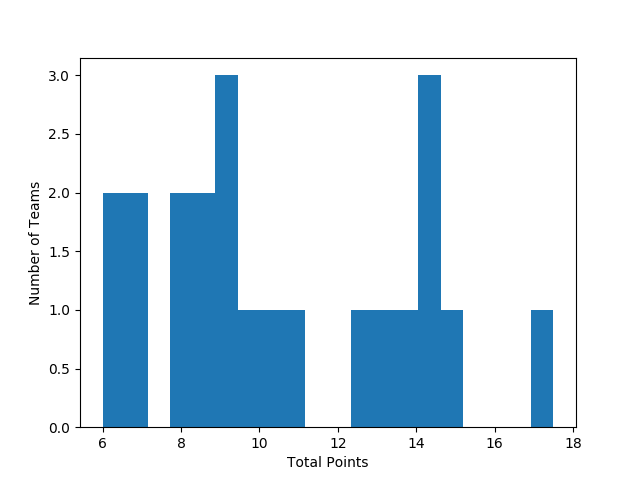
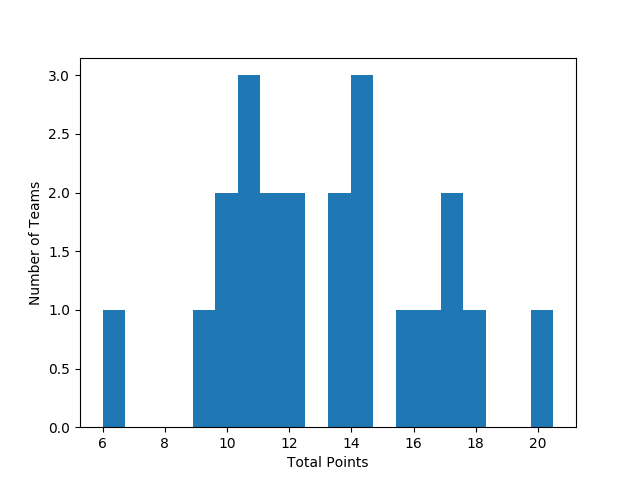
12-27 update

diff --git a/bowl_pool/2023-2024/results.html b/bowl_pool/2023-2024/results.html
@@ -900,33 +900,117 @@ ul.auto-toc {
 <td>0.0</td>
 <td>0.0</td>
 </tr>
+<tr><td>18</td>
+<td>Quick Lane Bowl</td>
+<td>Minnesota</td>
+<td>Bowling Green</td>
+<td>5.5</td>
+<td>1.0</td>
+<td>1.0</td>
+<td>0.0</td>
+<td>1.0</td>
+<td>1.0</td>
+<td>1.0</td>
+<td>1.0</td>
+<td>1.0</td>
+<td>0.0</td>
+<td>0.0</td>
+<td>1.0</td>
+<td>1.0</td>
+<td>0.0</td>
+<td>0.0</td>
+<td>1.0</td>
+<td>1.0</td>
+<td>0.0</td>
+<td>0.0</td>
+<td>1.0</td>
+<td>1.0</td>
+<td>1.0</td>
+<td>1.0</td>
+</tr>
+<tr><td>19</td>
+<td>First Responder Bowl</td>
+<td>Texas State</td>
+<td>Rice</td>
+<td>4.5</td>
+<td>1.0</td>
+<td>1.0</td>
+<td>1.0</td>
+<td>1.0</td>
+<td>1.0</td>
+<td>1.0</td>
+<td>1.0</td>
+<td>1.0</td>
+<td>0.0</td>
+<td>2.0<sup>*</sup></td>
+<td>1.0</td>
+<td>1.0</td>
+<td>1.0</td>
+<td>1.0</td>
+<td>1.0</td>
+<td>1.0</td>
+<td>1.0</td>
+<td>0.0</td>
+<td>1.0</td>
+<td>0.0</td>
+<td>1.0</td>
+<td>1.0</td>
+</tr>
+<tr><td>20</td>
+<td>Guaranteed Rate Bowl</td>
+<td>Kansas</td>
+<td>UNLV</td>
+<td>11.5</td>
+<td>2.0<sup>*</sup></td>
+<td>1.0</td>
+<td>2.0<sup>*</sup></td>
+<td>1.0</td>
+<td>1.0</td>
+<td>1.0</td>
+<td>1.0</td>
+<td>1.0</td>
+<td>0.0</td>
+<td>0.0</td>
+<td>1.0</td>
+<td>1.0</td>
+<td>0.0</td>
+<td>2.0<sup>*</sup></td>
+<td>1.0</td>
+<td>1.0</td>
+<td>2.0<sup>*</sup></td>
+<td>0.0</td>
+<td>1.0</td>
+<td>1.0</td>
+<td>1.0</td>
+<td>1.0</td>
+</tr>
 <tr><td><strong>Totals</strong></td>
 <td>&nbsp;</td>
 <td>&nbsp;</td>
 <td>&nbsp;</td>
 <td>&nbsp;</td>
-<td><strong>10.0</strong></td>
-<td><strong>9.25</strong></td>
-<td><strong>8.5</strong></td>
-<td><strong>17.5</strong></td>
-<td><strong>8.75</strong></td>
-<td><strong>6.25</strong></td>
 <td><strong>14.0</strong></td>
-<td><strong>8.0</strong></td>
-<td><strong>6.0</strong></td>
-<td><strong>14.5</strong></td>
-<td><strong>6.75</strong></td>
-<td><strong>9.0</strong></td>
-<td><strong>12.5</strong></td>
-<td><strong>14.25</strong></td>
+<td><strong>12.25</strong></td>
+<td><strong>11.5</strong></td>
+<td><strong>20.5</strong></td>
+<td><strong>11.75</strong></td>
+<td><strong>9.25</strong></td>
+<td><strong>17.0</strong></td>
 <td><strong>11.0</strong></td>
-<td><strong>7.75</strong></td>
-<td><strong>10.5</strong></td>
+<td><strong>6.0</strong></td>
+<td><strong>16.5</strong></td>
+<td><strong>9.75</strong></td>
+<td><strong>12.0</strong></td>
+<td><strong>13.5</strong></td>
+<td><strong>17.25</strong></td>
+<td><strong>14.0</strong></td>
+<td><strong>10.75</strong></td>
+<td><strong>13.5</strong></td>
 <td><strong>14.5</strong></td>
-<td><strong>14.75</strong></td>
-<td><strong>9.0</strong></td>
-<td><strong>13.0</strong></td>
-<td><strong>7.0</strong></td>
+<td><strong>17.75</strong></td>
+<td><strong>11.0</strong></td>
+<td><strong>16.0</strong></td>
+<td><strong>10.0</strong></td>
 </tr>
 </tbody>
 </table>

diff --git a/bowl_pool/2023-2024/rankings.html b/bowl_pool/2023-2024/rankings.html
@@ -364,31 +364,31 @@ ul.auto-toc {
 
 
 <div class="line-block">
-<div class="line"><em>Last updated:  2023-12-24 11:08:42</em></div>
-<div class="line"><em>Last bowl scored:  HawaiiBowl (San Jose State vs. Coastal Carolina)</em></div>
+<div class="line"><em>Last updated:  2023-12-27 14:01:41</em></div>
+<div class="line"><em>Last bowl scored:  Guaranteed Rate Bowl (Kansas vs. UNLV)</em></div>
 </div>
 <div class="line-block">
-<div class="line">1. <strong>Barkside Ballers (Wylie &amp; Flapjack) 17.5</strong></div>
-<div class="line">2. <strong>SEC Shipley 14.75</strong></div>
-<div class="line">3. <strong>Dbo 14.5</strong></div>
-<div class="line">3. <strong>Sascha Picks Dogs 14.5</strong></div>
-<div class="line">5. LadyLonghorn 14.25</div>
-<div class="line">6. bugabugaroo 14.0</div>
-<div class="line">7. The New Guy 13.0</div>
-<div class="line">8. Kylo Bad Dog 12.5</div>
-<div class="line">9. MamaDAWG 11.0</div>
-<div class="line">10. Rando Cal Rece Ian 10.5</div>
-<div class="line">11. #MamaBear 10.0</div>
-<div class="line">12. Aggie Austin 9.25</div>
-<div class="line">13. GlamKam 9.0</div>
-<div class="line">13. Sir Fluffy McFlufferson 9.0</div>
-<div class="line">15. Bear-in-Law 8.75</div>
-<div class="line">16. Badgers Rock! 8.5</div>
-<div class="line">17. COOKIES 8.0</div>
-<div class="line">18. Manda Panda 7.75</div>
-<div class="line">19. WD50 7.0</div>
-<div class="line">20. em&amp;em 6.75</div>
-<div class="line">21. Big 12 Bibby 6.25</div>
+<div class="line">1. <strong>Barkside Ballers (Wylie &amp; Flapjack) 20.5</strong></div>
+<div class="line">2. <strong>SEC Shipley 17.75</strong></div>
+<div class="line">3. LadyLonghorn 17.25</div>
+<div class="line">4. bugabugaroo 17.0</div>
+<div class="line">5. <strong>Dbo 16.5</strong></div>
+<div class="line">6. The New Guy 16.0</div>
+<div class="line">7. <strong>Sascha Picks Dogs 14.5</strong></div>
+<div class="line">8. #MamaBear 14.0</div>
+<div class="line">8. MamaDAWG 14.0</div>
+<div class="line">10. Kylo Bad Dog 13.5</div>
+<div class="line">10. Rando Cal Rece Ian 13.5</div>
+<div class="line">12. Aggie Austin 12.25</div>
+<div class="line">13. GlamKam 12.0</div>
+<div class="line">14. Bear-in-Law 11.75</div>
+<div class="line">15. Badgers Rock! 11.5</div>
+<div class="line">16. COOKIES 11.0</div>
+<div class="line">16. Sir Fluffy McFlufferson 11.0</div>
+<div class="line">18. Manda Panda 10.75</div>
+<div class="line">19. WD50 10.0</div>
+<div class="line">20. em&amp;em 9.75</div>
+<div class="line">21. Big 12 Bibby 9.25</div>
 <div class="line">22. <strong>Dazed &amp; Confoosballed 6.0</strong></div>
 </div>
 </div>

diff --git a/bowl_pool/test/2023-2024/rankings.html b/bowl_pool/test/2023-2024/rankings.html
@@ -364,14 +364,14 @@ ul.auto-toc {
 
 
 <div class="line-block">
-<div class="line"><em>Last updated:  2023-12-24 11:05:33</em></div>
+<div class="line"><em>Last updated:  2023-12-24 11:17:07</em></div>
 <div class="line"><em>Last bowl scored:  HawaiiBowl (San Jose State vs. Coastal Carolina)</em></div>
 </div>
 <div class="line-block">
 <div class="line">1. <strong>Barkside Ballers (Wylie &amp; Flapjack) 17.5</strong></div>
 <div class="line">2. <strong>SEC Shipley 14.75</strong></div>
 <div class="line">3. <strong>Dbo 14.5</strong></div>
-<div class="line">3. Sascha Picks Dogs 14.5</div>
+<div class="line">3. <strong>Sascha Picks Dogs 14.5</strong></div>
 <div class="line">5. LadyLonghorn 14.25</div>
 <div class="line">6. bugabugaroo 14.0</div>
 <div class="line">7. The New Guy 13.0</div>

diff --git a/bowl_pool/2023-2024/index.html b/bowl_pool/2023-2024/index.html
@@ -365,8 +365,8 @@ ul.auto-toc {
 
 <p><strong>2023-2024 Bowl Pool</strong></p>
 <div class="line-block">
-<div class="line"><em>Last updated:  2023-12-24 11:08:42</em></div>
-<div class="line"><em>Last bowl scored:  HawaiiBowl (San Jose State vs. Coastal Carolina)</em></div>
+<div class="line"><em>Last updated:  2023-12-27 14:01:42</em></div>
+<div class="line"><em>Last bowl scored:  Guaranteed Rate Bowl (Kansas vs. UNLV)</em></div>
 </div>
 <ul class="simple">
 <li><a class="reference external" href="rankings.html">Rankings</a> (<a class="reference external" href="rankings.csv">csv</a>)</li>

diff --git a/bowl_pool/test/2023-2024/index.html b/bowl_pool/test/2023-2024/index.html
@@ -365,7 +365,7 @@ ul.auto-toc {
 
 <p><strong>2023-2024 Bowl Pool</strong></p>
 <div class="line-block">
-<div class="line"><em>Last updated:  2023-12-24 11:05:34</em></div>
+<div class="line"><em>Last updated:  2023-12-24 11:17:07</em></div>
 <div class="line"><em>Last bowl scored:  HawaiiBowl (San Jose State vs. Coastal Carolina)</em></div>
 </div>
 <ul class="simple">
